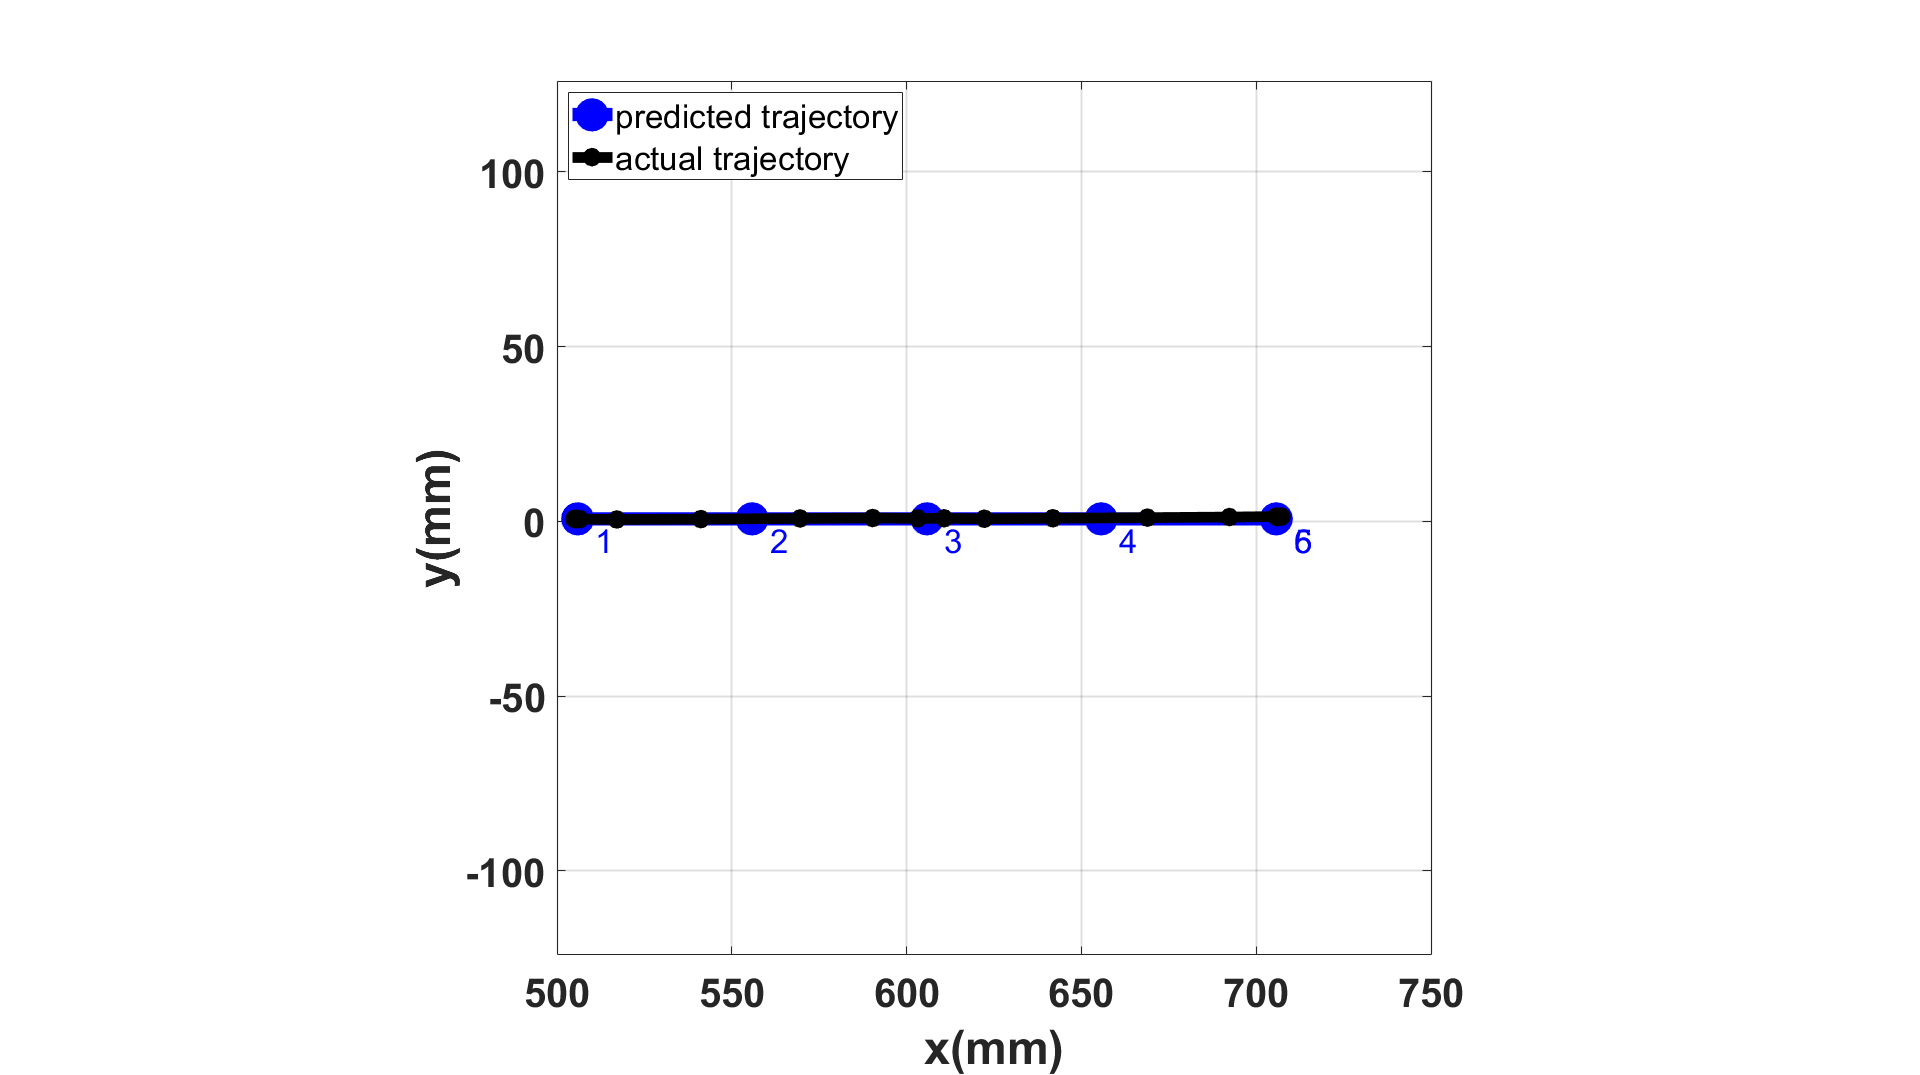
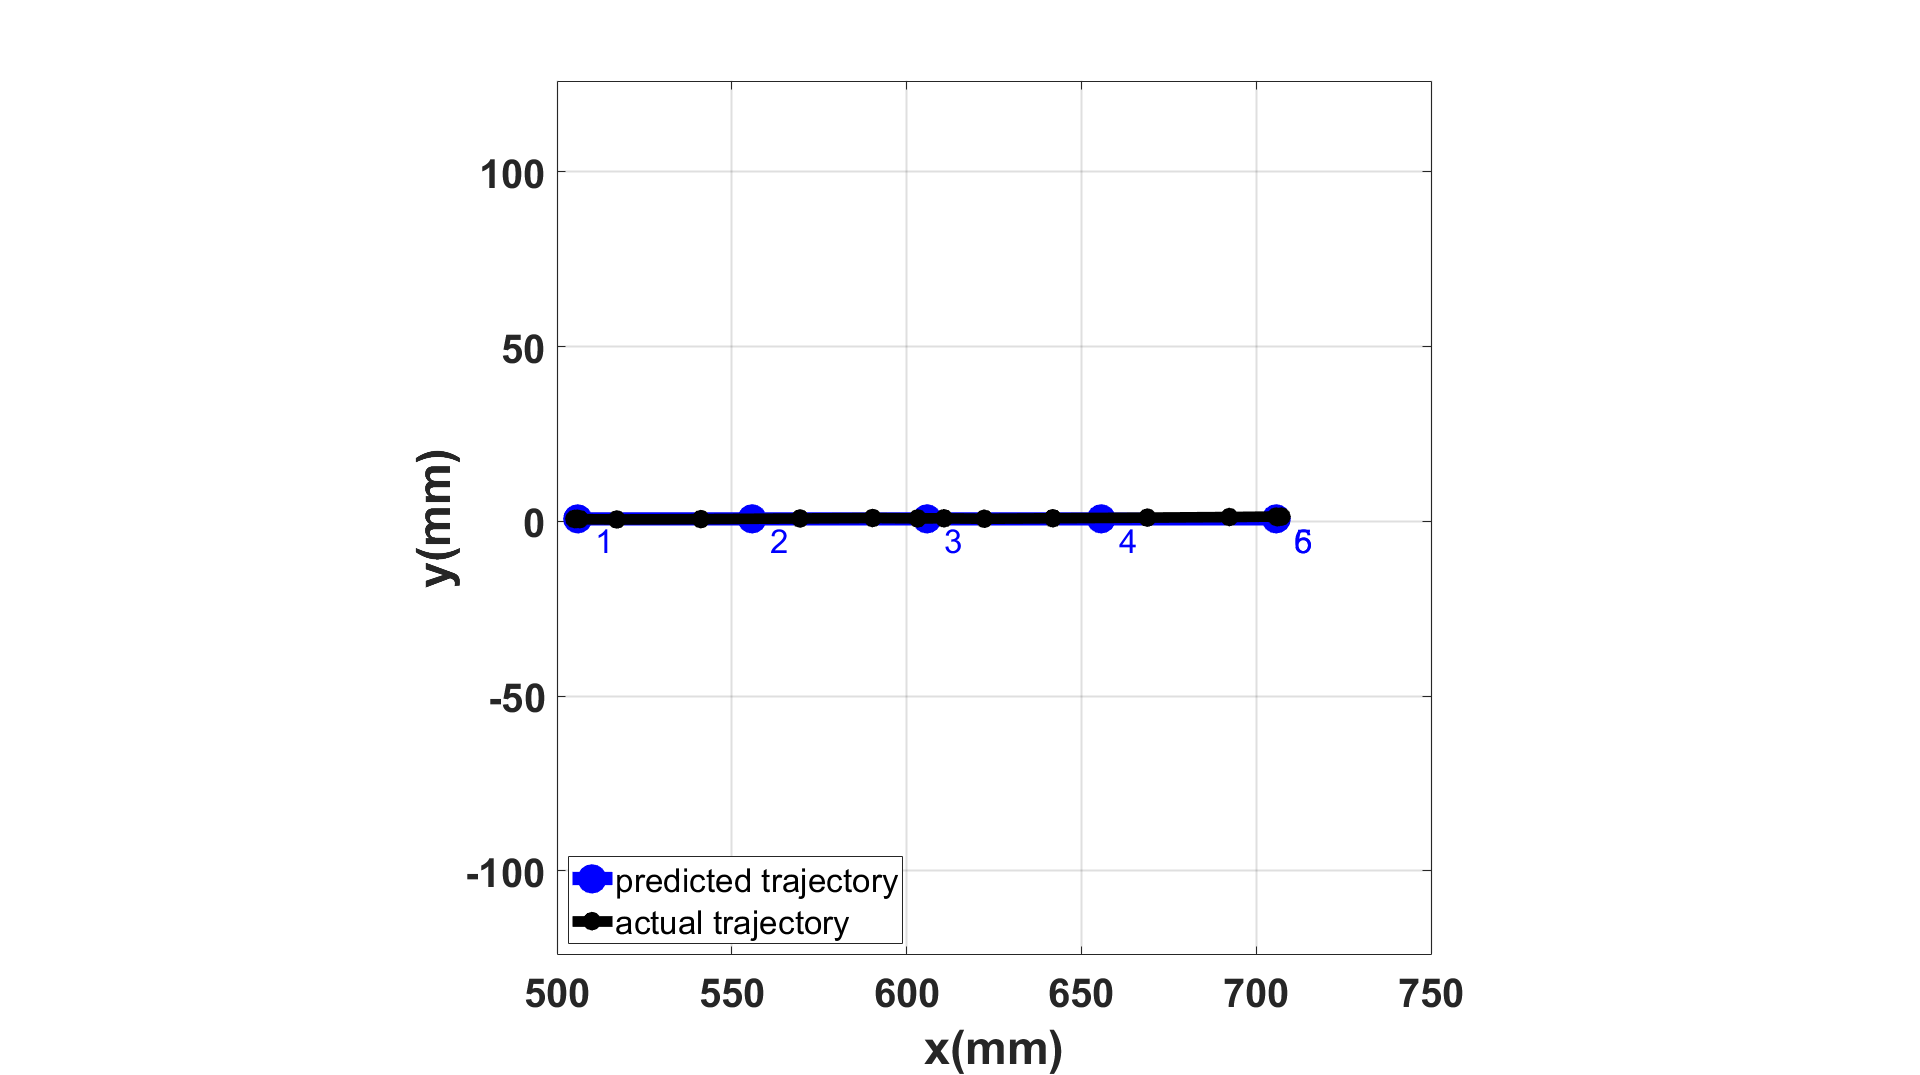
change legend location for pushing a drawer ee position plot

Changed region(s): [[0.2812, 0.7981, 0.4688, 0.8902], [0.2812, 0.0921, 0.4688, 0.1842]]

diff --git a/real_robot_data_plots_and_demos/pushing_a_drawer/ee_position_and_joint_states_plotter.m b/real_robot_data_plots_and_demos/pushing_a_drawer/ee_position_and_joint_states_plotter.m
@@ -289,7 +289,7 @@ ax_ee_traj_final = subplot(1, 1, 1, 'Parent', fig4);
 % Plot both lines first
 plot(ax_ee_traj_final, df_pred{:, 'PredEEX'} * 1000, ...
     df_pred{:, 'PredEEY'} * 1000, ...
-    'b-o', 'LineWidth', 10, 'MarkerSize', 15, 'DisplayName', 'predicted trajectory');
+    'b-o', 'LineWidth', 10, 'MarkerSize', 12, 'DisplayName', 'predicted trajectory');
 point_labels = 1:1:length(df_pred{:, 'PredEEX'} );
 labelpoints(df_pred{:, 'PredEEX'} * 1000, ...
      df_pred{:, 'PredEEY'} * 1000, point_labels,'SE', 0.4, 1, 'Fontsize', 25, 'Color', 'b');
@@ -316,7 +316,7 @@ ylabel(ax_ee_traj_final, 'y(mm)');
 hLegend = legend(ax_ee_traj_final, 'Interpreter', 'none', 'Color', 'none');
 hLegend.Box = 'on'; % Turn on the legend box (if not already on)
 hLegend.Color = 'white'; % Set the background color of the legend box
-ax_ee_traj_final.Legend.Location = "northwest";
+ax_ee_traj_final.Legend.Location = "southwest";
 
 % Set fontsizes for various plot parameters
 title_fontsize = 35;
